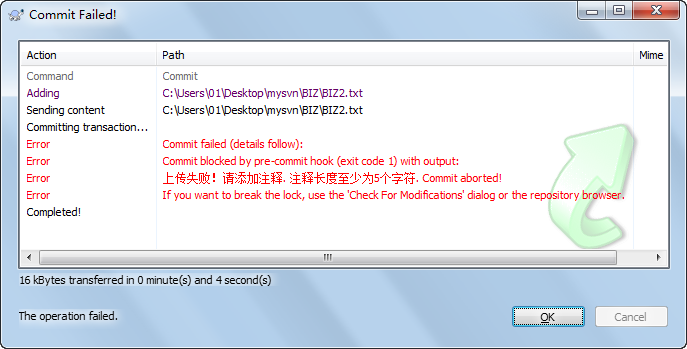
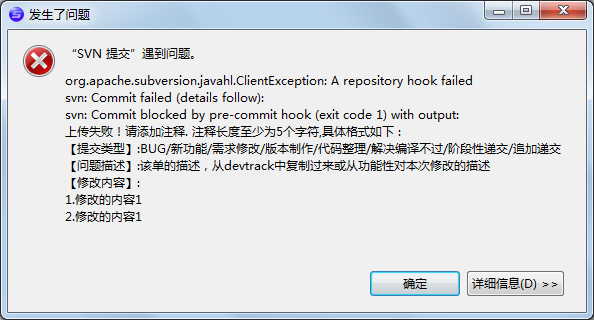
添加SVN提交注释提示

diff --git a/_posts/2017-07-08-VisualSVN Server中设置SVN提交时强制添加注释.md b/_posts/2017-07-08-VisualSVN Server中设置SVN提交时强制添加注释.md
@@ -23,7 +23,12 @@ svnlook log "%REPOS%" -t "%TXN%" | findstr "....." > nul
 if %errorlevel% gtr 0 goto err
 exit 0
 :err
-echo 上传失败！请添加注释. 注释长度至少为5个字符. Commit aborted! 1>&2
+echo 上传失败！请添加注释. 注释长度至少为5个字符,具体格式如下 : 1>&2
+echo 【提交类型】:BUG/新功能/需求修改/版本制作/代码整理/解决编译不过/阶段性递交/追加递交 1>&2   
+echo 【问题描述】:该单的描述，从devtrack中复制过来或从功能性对本次修改的描述 1>&2    
+echo 【修改内容】: 1>&2  
+echo 1.修改的内容1 1>&2  
+echo 2.修改的内容1 1>&2 
 exit 1
 ```
 
